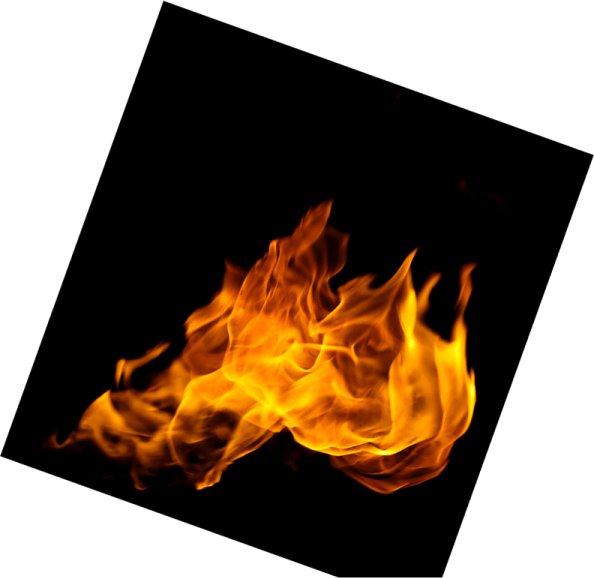
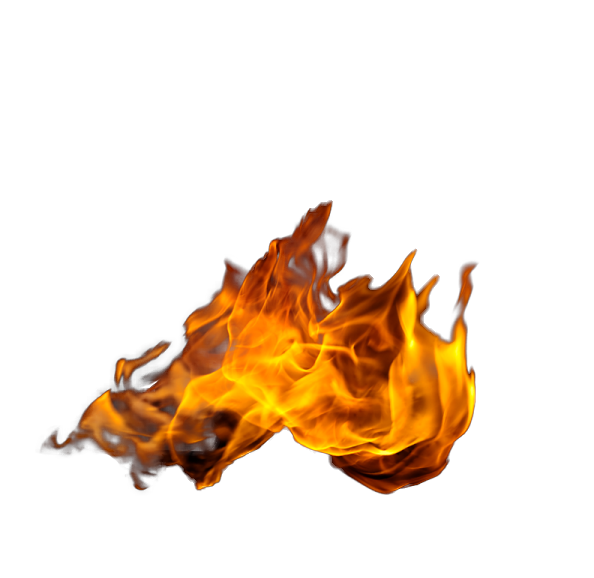
add fire first block

diff --git a/index.html b/index.html
@@ -100,8 +100,8 @@
 
 		</div>
 		<section class="first">
-			<img src="./images/system_img/First_section/Chicken.png" alt="" class="first__bg-img" data-aos-duration="1000"
-				data-aos-delay="1000">
+			<img src="./images/system_img/First_section/Chicken-fire.png" alt="" class="first__bg-img"
+				data-aos-duration="1000" data-aos-delay="1000">
 			<div class="first__wrap">
 				<h1 class="first__title" data-aos="fade-down" data-aos-duration="1000" data-aos-delay="800">КУРОЧКА ГРИЛЬ
 					ПРЯМО В ЦЕНТРЕ кИЕВА</h1>

diff --git a/css/style.css b/css/style.css
@@ -409,12 +409,12 @@ body._lock {
 .first__bg-img {
   position: absolute;
   z-index: 1;
-  height: 40vh;
+  height: 50vh;
   top: 50%;
   left: 50%;
-  -webkit-transform: translate(-50%, -50%);
-      -ms-transform: translate(-50%, -50%);
-          transform: translate(-50%, -50%);
+  -webkit-transform: translate(-50%, -25%);
+      -ms-transform: translate(-50%, -25%);
+          transform: translate(-50%, -25%);
   opacity: 0;
   -webkit-transition: opacity 1s;
   -o-transition: opacity 1s;

diff --git a/#source/scss/_first.scss b/#source/scss/_first.scss
@@ -8,10 +8,10 @@
 	&__bg-img {
 		position: absolute;
 		z-index: 1;
-		height: 40vh;
+		height: 50vh;
 		top: 50%;
 		left: 50%;
-		transform: translate(-50%, -50%);
+		transform: translate(-50%, -25%);
 		opacity: 0;
 		transition: opacity 1s;
 
